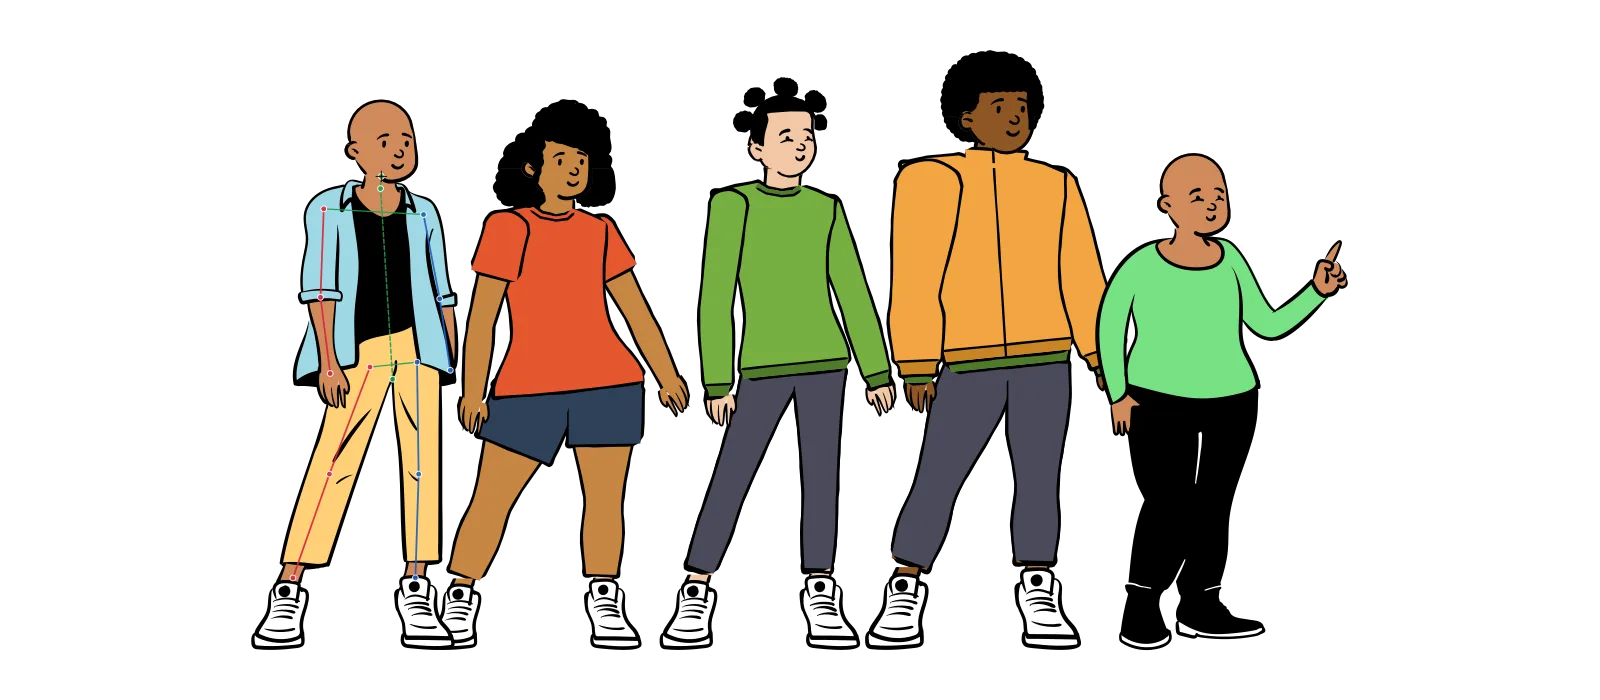
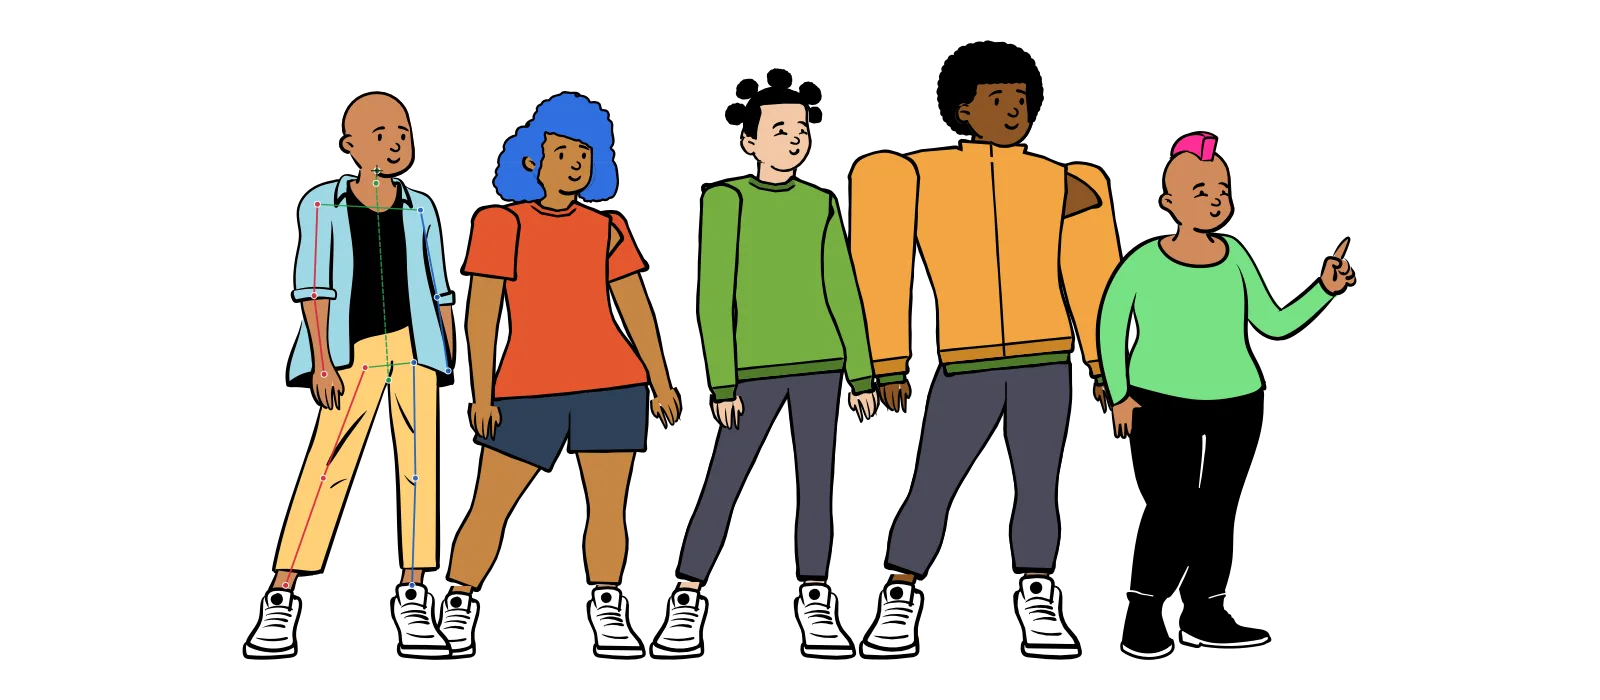
figurewright card shows the hero lineup; licences list ogl
card.webp is splash-easing.svg rendered with sharp-cli into 1600 x 700
(16:7), the whole lineup contained with a 30 px margin on a transparent
background, 83 KB. The alt text describes the five figures.
THIRD_PARTY_LICENSES.txt is regenerated from license-checker and now lists
ogl (Unlicense) and the React Bits backgrounds on all three demo pages.

diff --git a/src/index/IndexPage.tsx b/src/index/IndexPage.tsx
@@ -12,7 +12,7 @@ const projects: Project[] = [
     href: '/figurewright/',
     image: {
       src: '/figurewright/card.webp',
-      alt: 'Five hand-drawn figures of different builds and heights standing in a row, in tops, jackets, shorts and trousers',
+      alt: 'Five hand-drawn figures in a row: three dressed figurewright figures of different builds in a relaxed, easing pose, between the two Open Peeps drawings they are built from, on the left with its rig of joints and bones, on the right pointing a finger',
       width: 1600,
       height: 700,
     },
